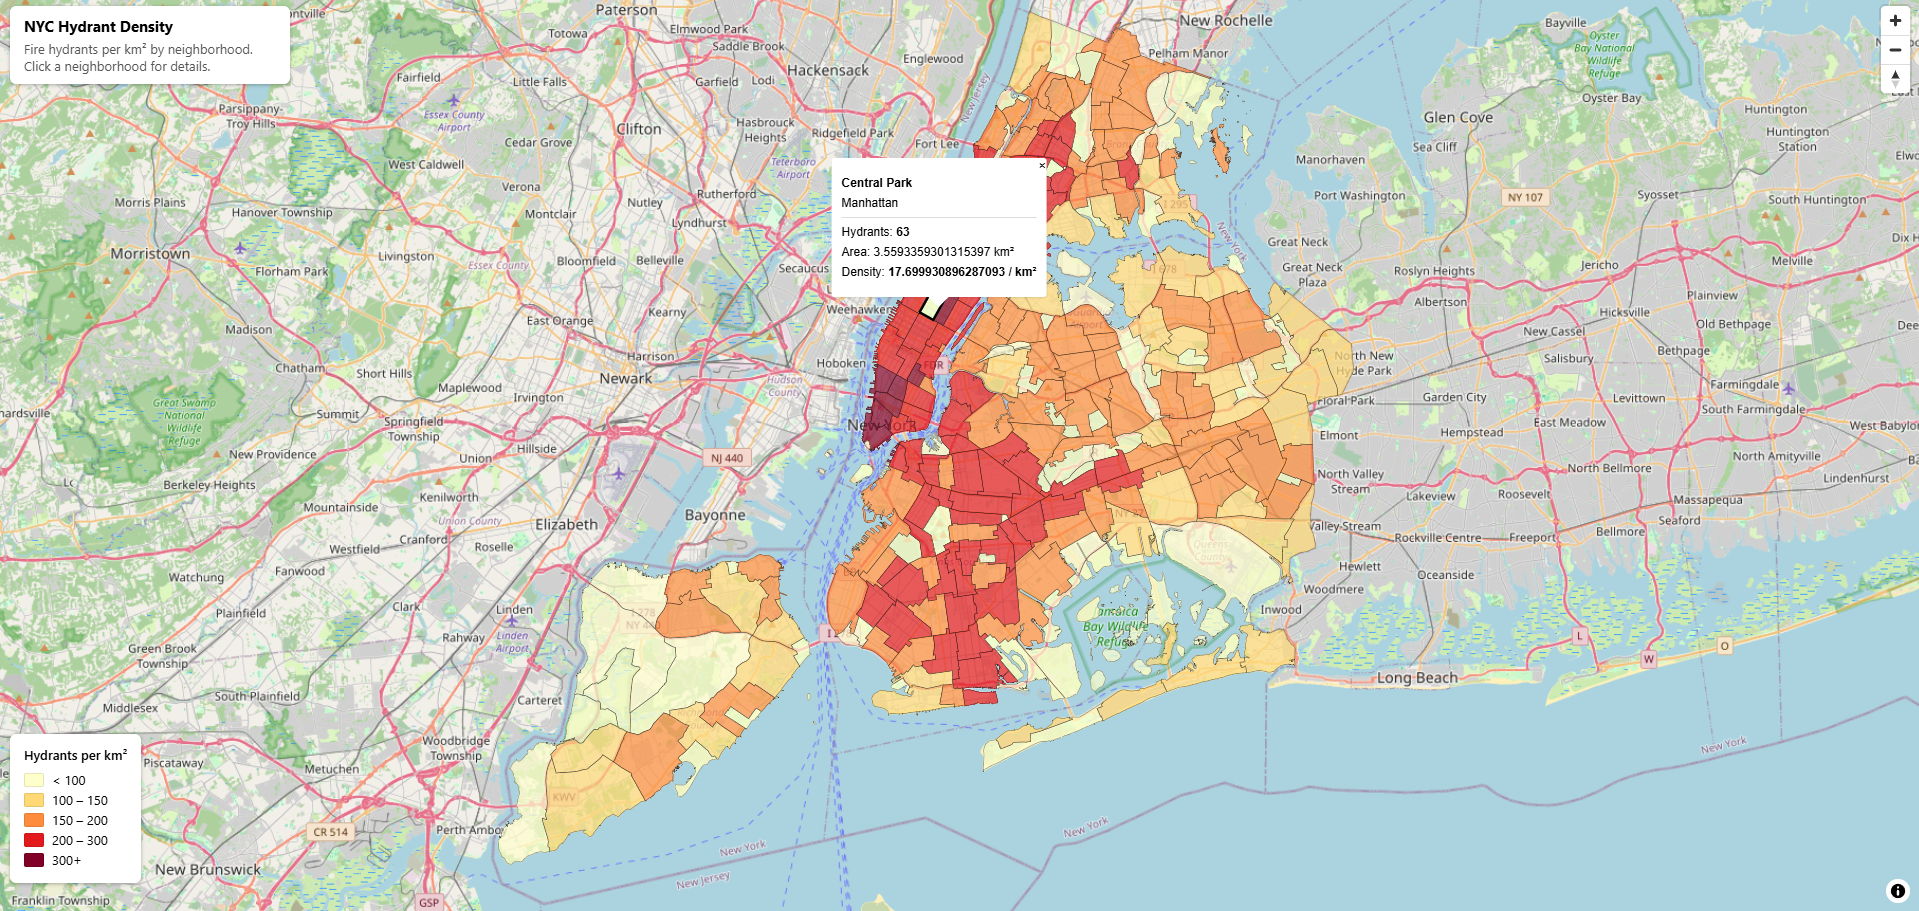
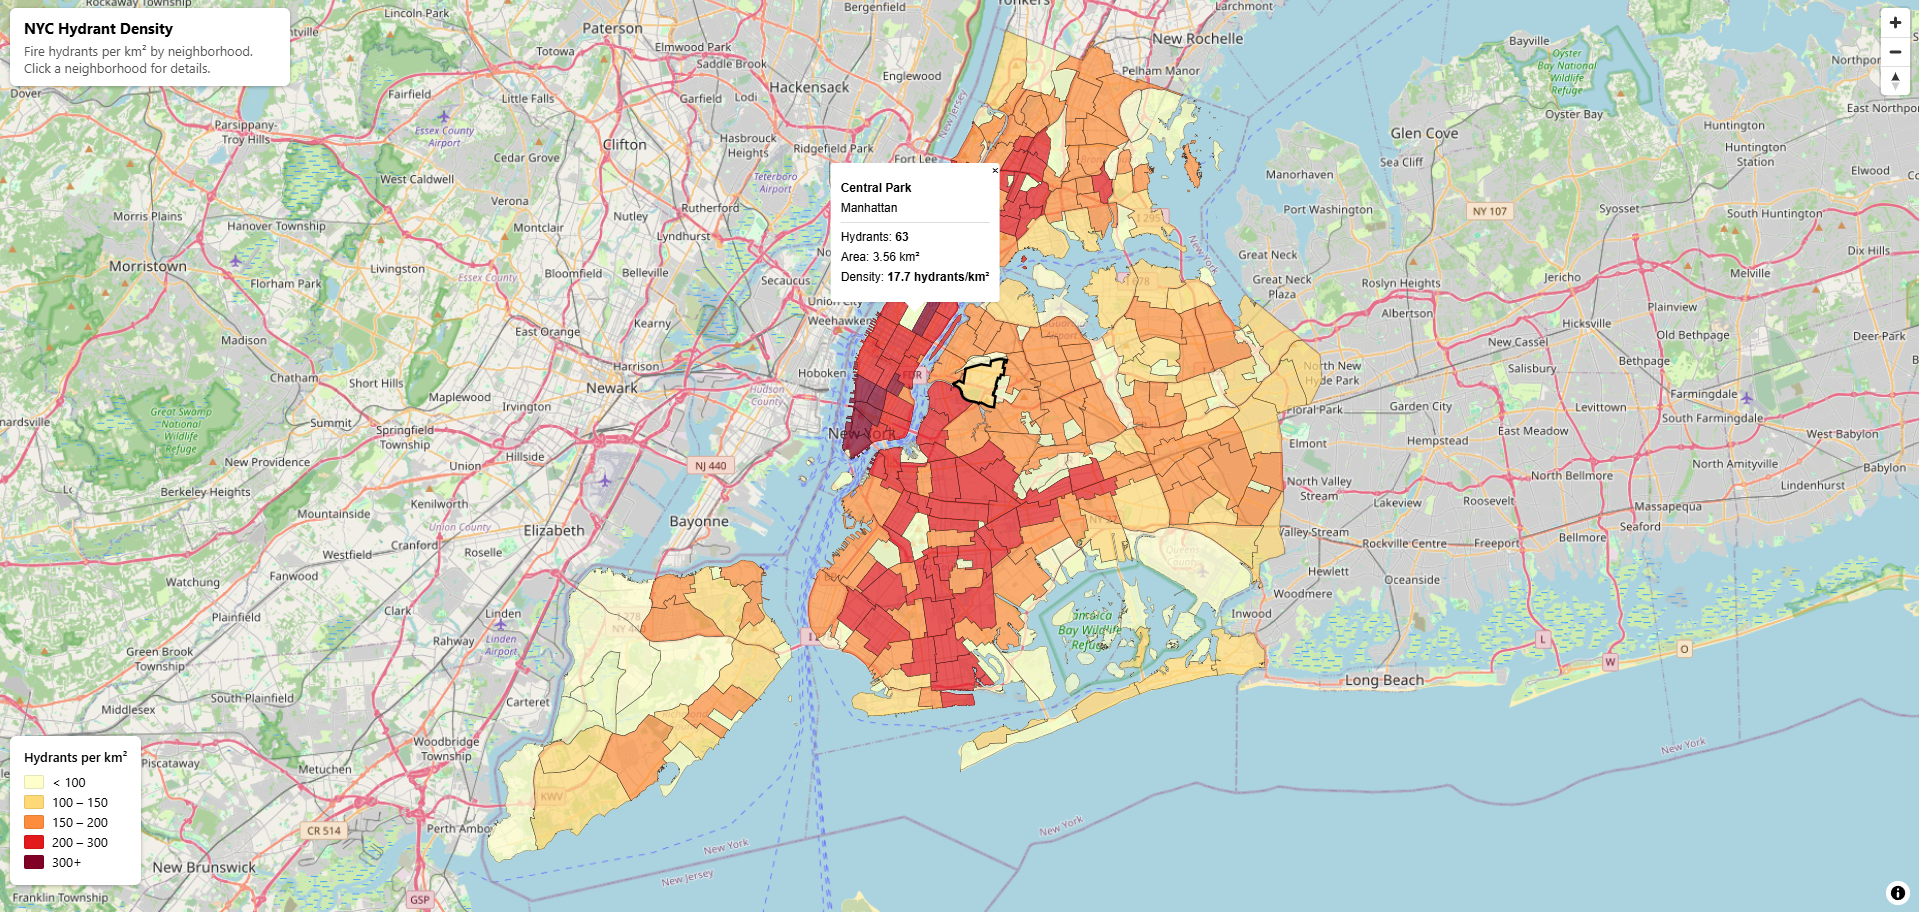
Round popup values and update documentation

diff --git a/index.html b/index.html
@@ -194,8 +194,8 @@
             ${f.boroname}<br>
             <hr style="margin:4px 0;border:none;border-top:1px solid #ddd">
             Hydrants: <strong>${f.hydrant_count}</strong><br>
-            Area: ${f.area_km2} km²<br>
-            Density: <strong>${f.hydrants_per_km2} / km²</strong>
+            Area: ${Number(f.area_km2).toFixed(2)} km²<br>
+            Density: <strong>${Number(f.hydrants_per_km2).toFixed(1)} hydrants/km²</strong>
         `;
 
         new maplibregl.Popup({ maxWidth: '240px' })

diff --git a/README.md b/README.md
@@ -4,6 +4,8 @@ An interactive webmap based on my [nyc-spatial-analysis](https://github.com/nwil
 
 [Open the interactive map](https://nwillemsen99.github.io/nyc-hydrant-map/)
 
+Run locally: ``npx --yes http-server . -p 8080 --cors -c-1``
+
 ![NYC Hydrant Density Map Screenshot](images/nyc-hydrant-map-screenshot.png)
 
 ## Data
